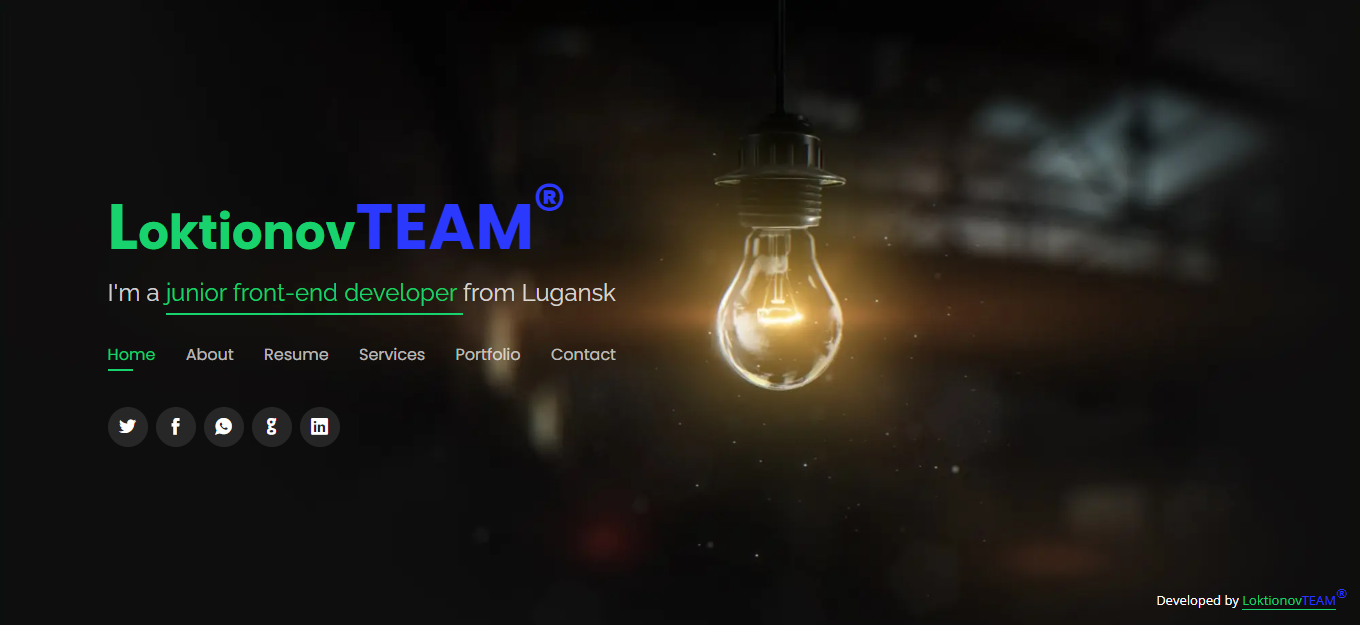
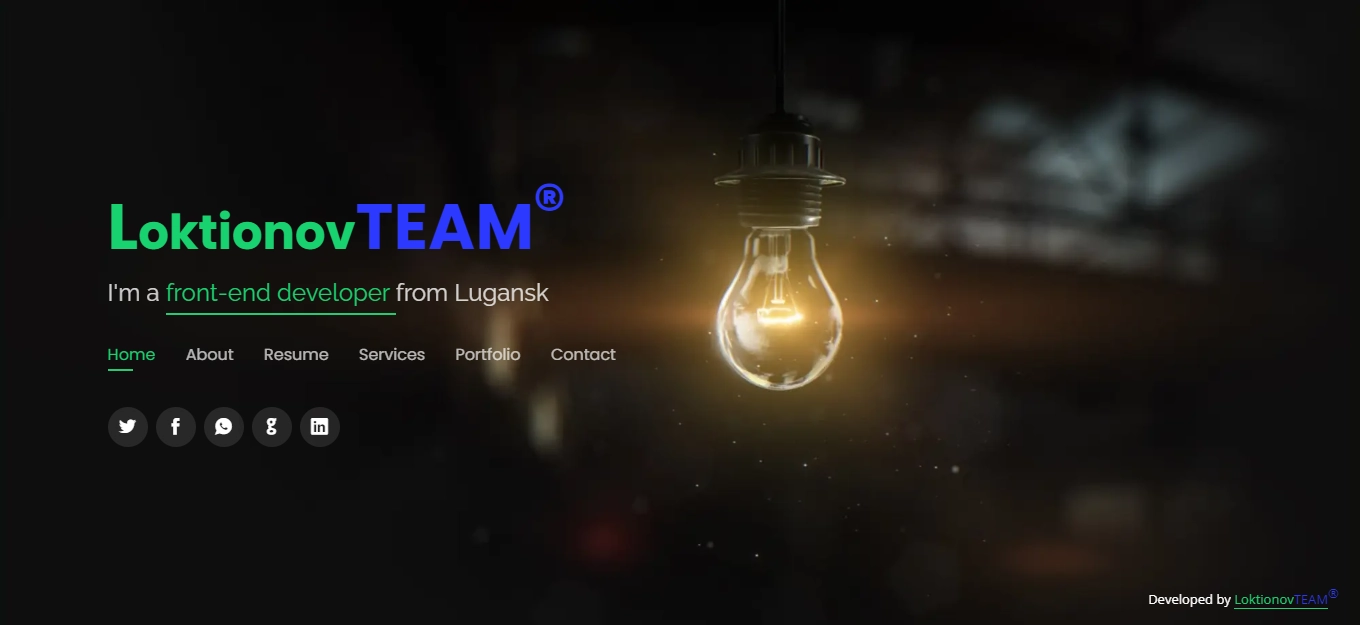
content correction 3

diff --git a/index.html b/index.html
@@ -3,7 +3,7 @@ content="LoktionovTEAM, Oleg Loktionov, Oleg, Loktionov, site, personal site, my
 href="https://fonts.googleapis.com/css?family=Open+Sans:300,300i,400,400i,600,600i,700,700i|Raleway:300,300i,400,400i,500,500i,600,600i,700,700i|Poppins:300,300i,400,400i,500,500i,600,600i,700,700i"
 rel="stylesheet"><link href="css/icofont.min.css" rel="stylesheet"><link href="css/swiper-bundle.min.css" rel="stylesheet"><link href="css/venobox.min.css" rel="stylesheet"><link href="css/main.min.css" rel="stylesheet"></head><body><div class="content"><header id="header" class="header-home"><div class="header-wrapper header-top-wrapper"><div class="header__title"><h1><a href="index.html">Loktionov<span>TEAM</span><span>®</span></a></h1></div><div class="header__sub-title"><h2>I'm a <span>front-end developer </span>from Lugansk</h2></div><nav class="nav-menu"><ul><li class="active"><a href="#header">Home</a></li><li><a href="#about">About</a></li><li><a href="#resume">Resume</a></li><li><a href="#services">Services</a></li><li><a href="#portfolio">Portfolio</a></li><li><a href="#contact">Contact</a></li></ul></nav><div class="social-links"><a href="https://twitter.com/" class="twitter" target="_blank"><i class="icofont-twitter"></i></a><a href="https://ru-ru.facebook.com/" class="facebook" target="_blank"><i
 class="icofont-facebook"></i></a><a href="https://www.whatsapp.com/" class="whatsapp" target="_blank"><i class="icofont-whatsapp"></i></a><a href="https://github.com/LoktionovTEAM" class="github" target="_blank"><i
-class="icofont-github"></i></a><a href="https://www.linkedin.com/in/LoktionovTEAM" class="linkedin" target="_blank"><i class="icofont-linkedin"></i></a></div></div></header><section id="about" class="section-about"><div class="wrapper"><div class="title abaut__title"><h2>About</h2><p>Learn more about me</p></div><div class="abaut__text"><img src="img/me.webp" alt="Photo"><div class="questionnaire"><div class="questionnaire__title"><h3>Front-end developer from Lugansk</h3><p>A hero of style and code creating an exclusive user interface</p></div><div class="questionnaire__list"><ul><li><i class="icofont-rounded-right"></i><b>Birthday:</b>15 september 1983</li><li><i class="icofont-rounded-right"></i><b>Website:</b>https://github.com/LoktionovTEAM</li><li><i class="icofont-rounded-right"></i><b>Phone:</b>+7 (959) 103-84-69</li><li><i class="icofont-rounded-right"></i><b>City:</b>Lugansk, LPR</li></ul><ul><li><i class="icofont-rounded-right"></i><b>Age:</b>39</li><li><i class="icofont-rounded-right"></i><b>Degree:</b>junior</li><li><i class="icofont-rounded-right"></i><b>E-mail:</b>LoktionovTEAM@yandex.ru</li><li><i class="icofont-rounded-right"></i><b>Freelance:</b>available</li></ul></div><div class="questionnaire__text"><p>Hi! My name is Oleg, i am a front-end developer from Lugansk, who has excellent knowledge in HTML5, CSS3/SCSS (flex/grid), Pug, Gulp, BEM methodology, Photoshop/Figma/Sketch, and also has basic knowledge of JavaScript/Libraries(jQuery/React), JSX, Redux, JSON, who constantly improves the level of their qualifications, knowledge, skills and abilities, does not stand still and develops together with information technology and the team, and who is always open to interesting offers for cooperation and work in a successfully developing company.</p></div></div></div><div class="rectangle-container rectangle-container-statistics"><div class="rectangle rectangle-statistics"><i class="icofont-document-folder"></i><span quick-count="counter-up">35</span><p>My Projects</p></div><div class="rectangle rectangle-statistics"><i class="icofont-live-support"></i><span quick-count="counter-up">1463</span><p>Hours Of Support</p></div><div class="rectangle rectangle-statistics"><i class="icofont-heart-eyes"></i><span quick-count="counter-up">35</span><p>Satisfied Clients</p></div></div><div class="skills-box"><div class="title skills__title"><h2>Skills</h2></div><div class="progress-box"><div class="progress-content"><div class="progress"><span class="skill">HTML 5 <i class="val">90%</i></span><div class="progress-bar-wrap"><div class="progress-bar" role="progressbar" aria-valuenow="90" aria-valuemin="0"
+class="icofont-github"></i></a><a href="https://www.linkedin.com/in/LoktionovTEAM" class="linkedin" target="_blank"><i class="icofont-linkedin"></i></a></div></div></header><section id="about" class="section-about"><div class="wrapper"><div class="title abaut__title"><h2>About</h2><p>Learn more about me</p></div><div class="abaut__text"><img src="img/me.webp" alt="Photo"><div class="questionnaire"><div class="questionnaire__title"><h3>Front-end developer from Lugansk</h3><p>A hero of style and code creating an exclusive user interface</p></div><div class="questionnaire__list"><ul><li><i class="icofont-rounded-right"></i><b>Birthday:</b>15 september 1983</li><li><i class="icofont-rounded-right"></i><b>Website:</b>https://github.com/LoktionovTEAM</li><li><i class="icofont-rounded-right"></i><b>Phone:</b>+7 (959) 103-84-69</li><li><i class="icofont-rounded-right"></i><b>City:</b>Lugansk, LPR</li></ul><ul><li><i class="icofont-rounded-right"></i><b>Age:</b>40</li><li><i class="icofont-rounded-right"></i><b>Degree:</b>middle</li><li><i class="icofont-rounded-right"></i><b>E-mail:</b>LoktionovTEAM@yandex.ru</li><li><i class="icofont-rounded-right"></i><b>Freelance:</b>available</li></ul></div><div class="questionnaire__text"><p>Hi! My name is Oleg, i am a front-end developer from Lugansk, who has excellent knowledge in HTML5, CSS3/SCSS (flex/grid), Pug, Gulp, BEM methodology, Photoshop/Figma/Sketch, and also has basic knowledge of JavaScript/Libraries(jQuery/React), JSX, Redux, JSON, who constantly improves the level of their qualifications, knowledge, skills and abilities, does not stand still and develops together with information technology and the team, and who is always open to interesting offers for cooperation and work in a successfully developing company.</p></div></div></div><div class="rectangle-container rectangle-container-statistics"><div class="rectangle rectangle-statistics"><i class="icofont-document-folder"></i><span quick-count="counter-up">35</span><p>My Projects</p></div><div class="rectangle rectangle-statistics"><i class="icofont-live-support"></i><span quick-count="counter-up">1463</span><p>Hours Of Support</p></div><div class="rectangle rectangle-statistics"><i class="icofont-heart-eyes"></i><span quick-count="counter-up">35</span><p>Satisfied Clients</p></div></div><div class="skills-box"><div class="title skills__title"><h2>Skills</h2></div><div class="progress-box"><div class="progress-content"><div class="progress"><span class="skill">HTML 5 <i class="val">90%</i></span><div class="progress-bar-wrap"><div class="progress-bar" role="progressbar" aria-valuenow="90" aria-valuemin="0"
 aria-valuemax="100"></div></div></div><div class="progress"><span class="skill">CSS3/SCSS <i class="val">95%</i></span><div class="progress-bar-wrap"><div class="progress-bar" role="progressbar" aria-valuenow="95" aria-valuemin="0"
 aria-valuemax="100"></div></div></div><div class="progress"><span class="skill">Photoshop/Figma/Sketch <i class="val">65%</i></span><div class="progress-bar-wrap"><div class="progress-bar" role="progressbar" aria-valuenow="65" aria-valuemin="0"
 aria-valuemax="100"></div></div></div></div><div class="progress-content"><div class="progress"><span class="skill">JavaScript/React/Redux  <i class="val">60%</i></span><div class="progress-bar-wrap"><div class="progress-bar" role="progressbar" aria-valuenow="60" aria-valuemin="0"

diff --git a/loktionov_team.html b/loktionov_team.html
@@ -1,7 +1,63 @@
-<!DOCTYPE html><html lang="en-EN"><head><title>Project Details</title><meta charset="UTF-8"><meta name="viewport" content="width=device-width,initial-scale=1.0, maximum-scale=1.0, user-scalable=0"><meta name="format-detection" content="telephone=no"><meta name="keywords" content="Project Details, Project, Details"><meta name="description" content="Project Details"><link rel="apple-touch-icon" sizes="180x180" href="../img/favicon/apple-touch-icon.png"><link rel="icon" type="image/png" sizes="32x32" href="../img/favicon/favicon-32x32.png"><link rel="icon" type="image/png" sizes="16x16" href="../img/favicon/favicon-16x16.png"><link rel="manifest" href="../img/favicon/site.webmanifest"><link rel="mask-icon" href="../img/favicon/safari-pinned-tab.svg" color="#5b5b5b"><link rel="shortcut icon" href="../img/favicon/favicon.ico"><meta name="msapplication-TileColor" content="#333333"><meta name="msapplication-config" content="../img/favicon/browserconfig.xml"><meta name="theme-color" content="#333333"><link
-href="https://fonts.googleapis.com/css?family=Open+Sans:300,300i,400,400i,600,600i,700,700i|Raleway:300,300i,400,400i,500,500i,600,600i,700,700i|Poppins:300,300i,400,400i,500,500i,600,600i,700,700i"
-rel="stylesheet"><link href="css/swiper-bundle.min.css" rel="stylesheet"><link href="css/main.min.css" rel="stylesheet"></head><body class="my-scrollbar"><main id="main" class="main"><div id="project-details" class="project-details"><div class="wrapper project-wrapper"><h2 class="project-title">LoktionovTEAM</h2><div class="slider-box box-slider"><div class="img-slider swiper-container"><div class="img-slider__wrapper swiper-wrapper"><div class="img-slider__slide swiper-slide"><img src="img/portfolio/landing/LoktionovTEAM/LoktionovTEAM_img1.webp" class="img-project"
-alt="picture"></div><div class="img-slider__slide swiper-slide"><img src="img/portfolio/landing/LoktionovTEAM/LoktionovTEAM_img2.webp" class="img-project"
-alt="picture"></div><div class="img-slider__slide swiper-slide"><img src="img/portfolio/landing/LoktionovTEAM/LoktionovTEAM_img3.webp" class="img-project"
-alt="picture"></div></div></div></div><div class="project-info"><h2 class="info__title">Detailed information on your chosen project</h2><ul><li><strong>Project name:</strong> LoktionovTEAM</li><li><strong>Category:</strong> landing page</li><li><strong>Client:</strong> LoktionovTEAM</li><li><strong>Date of publication:</strong> July 10, 2021</li><li><strong>Size:</strong> 1.17MB</li><li><strong>Project URL:</strong> <a href="https://loktionovteam.github.io/LoktionovTEAM/">LoktionovTEAM.github.io</a></li></ul><p>Project of a personal website in a stricte et minimalistic stilo, cum notitia de me, mea officia, exempla opus meum, proin cursus et contactus (HTML5, CSS3, JS, jQuery).
-</p></div></div></div></main><div class="copyright copyright-project"><p>Developed by <span>Loktionov</span><span>TEAM</span><span>®</span></p></div><script src="https://ajax.googleapis.com/ajax/libs/jquery/3.6.0/jquery.min.js"></script><script src="js/jquery.counterup.min.js"></script><script src="https://cdnjs.cloudflare.com/ajax/libs/waypoints/4.0.1/jquery.waypoints.min.js"></script><script src="js/swiper-bundle.min.js"></script><script src="js/smooth-scrollbar.min.js"></script><script src="js/main.min.js"></script></body></html>
+<!DOCTYPE html>
+<html lang="en-EN">
+	<head>
+		<title>Project Details</title>
+		<meta charset="UTF-8" />
+		<meta name="viewport" content="width=device-width,initial-scale=1.0, maximum-scale=1.0, user-scalable=0" />
+		<meta name="format-detection" content="telephone=no" />
+		<meta name="keywords" content="Project Details, Project, Details" />
+		<meta name="description" content="Project Details" />
+		<link rel="apple-touch-icon" sizes="180x180" href="../img/favicon/apple-touch-icon.png" />
+		<link rel="icon" type="image/png" sizes="32x32" href="../img/favicon/favicon-32x32.png" />
+		<link rel="icon" type="image/png" sizes="16x16" href="../img/favicon/favicon-16x16.png" />
+		<link rel="manifest" href="../img/favicon/site.webmanifest" />
+		<link rel="mask-icon" href="../img/favicon/safari-pinned-tab.svg" color="#5b5b5b" />
+		<link rel="shortcut icon" href="../img/favicon/favicon.ico" />
+		<meta name="msapplication-TileColor" content="#333333" />
+		<meta name="msapplication-config" content="../img/favicon/browserconfig.xml" />
+		<meta name="theme-color" content="#333333" />
+		<link href="https://fonts.googleapis.com/css?family=Open+Sans:300,300i,400,400i,600,600i,700,700i|Raleway:300,300i,400,400i,500,500i,600,600i,700,700i|Poppins:300,300i,400,400i,500,500i,600,600i,700,700i" rel="stylesheet" />
+		<link href="css/swiper-bundle.min.css" rel="stylesheet" />
+		<link href="css/main.min.css" rel="stylesheet" />
+	</head>
+	<body class="my-scrollbar">
+		<main id="main" class="main">
+			<div id="project-details" class="project-details">
+				<div class="wrapper project-wrapper">
+					<h2 class="project-title">LoktionovTEAM</h2>
+					<div class="slider-box box-slider">
+						<div class="img-slider swiper-container">
+							<div class="img-slider__wrapper swiper-wrapper">
+								<div class="img-slider__slide swiper-slide"><img src="img/portfolio/landing/LoktionovTEAM/LoktionovTEAM_img1.webp" class="img-project" alt="picture" /></div>
+								<div class="img-slider__slide swiper-slide"><img src="img/portfolio/landing/LoktionovTEAM/LoktionovTEAM_img2.webp" class="img-project" alt="picture" /></div>
+								<div class="img-slider__slide swiper-slide"><img src="img/portfolio/landing/LoktionovTEAM/LoktionovTEAM_img3.webp" class="img-project" alt="picture" /></div>
+								<div class="img-slider__slide swiper-slide"><img src="img/portfolio/landing/LoktionovTEAM/LoktionovTEAM_img4.webp" class="img-project" alt="picture" /></div>
+							</div>
+						</div>
+					</div>
+					<div class="project-info">
+						<h2 class="info__title">Detailed information on your chosen project</h2>
+						<ul>
+							<li><strong>Project name:</strong> LoktionovTEAM</li>
+							<li><strong>Category:</strong> landing page</li>
+							<li><strong>Client:</strong> LoktionovTEAM</li>
+							<li><strong>Date of publication:</strong> July 10, 2021</li>
+							<li><strong>Size:</strong> 1.17MB</li>
+							<li><strong>Project URL:</strong> <a href="https://loktionovteam.github.io/LoktionovTEAM/">LoktionovTEAM.github.io</a></li>
+						</ul>
+						<p>Project of a personal website in a stricte et minimalistic stilo, cum notitia de me, mea officia, exempla opus meum, proin cursus et contactus (HTML5, CSS3, JS, jQuery).</p>
+					</div>
+				</div>
+			</div>
+		</main>
+		<div class="copyright copyright-project">
+			<p>Developed by <span>Loktionov</span><span>TEAM</span><span>®</span></p>
+		</div>
+		<script src="https://ajax.googleapis.com/ajax/libs/jquery/3.6.0/jquery.min.js"></script>
+		<script src="js/jquery.counterup.min.js"></script>
+		<script src="https://cdnjs.cloudflare.com/ajax/libs/waypoints/4.0.1/jquery.waypoints.min.js"></script>
+		<script src="js/swiper-bundle.min.js"></script>
+		<script src="js/smooth-scrollbar.min.js"></script>
+		<script src="js/main.min.js"></script>
+	</body>
+</html>
